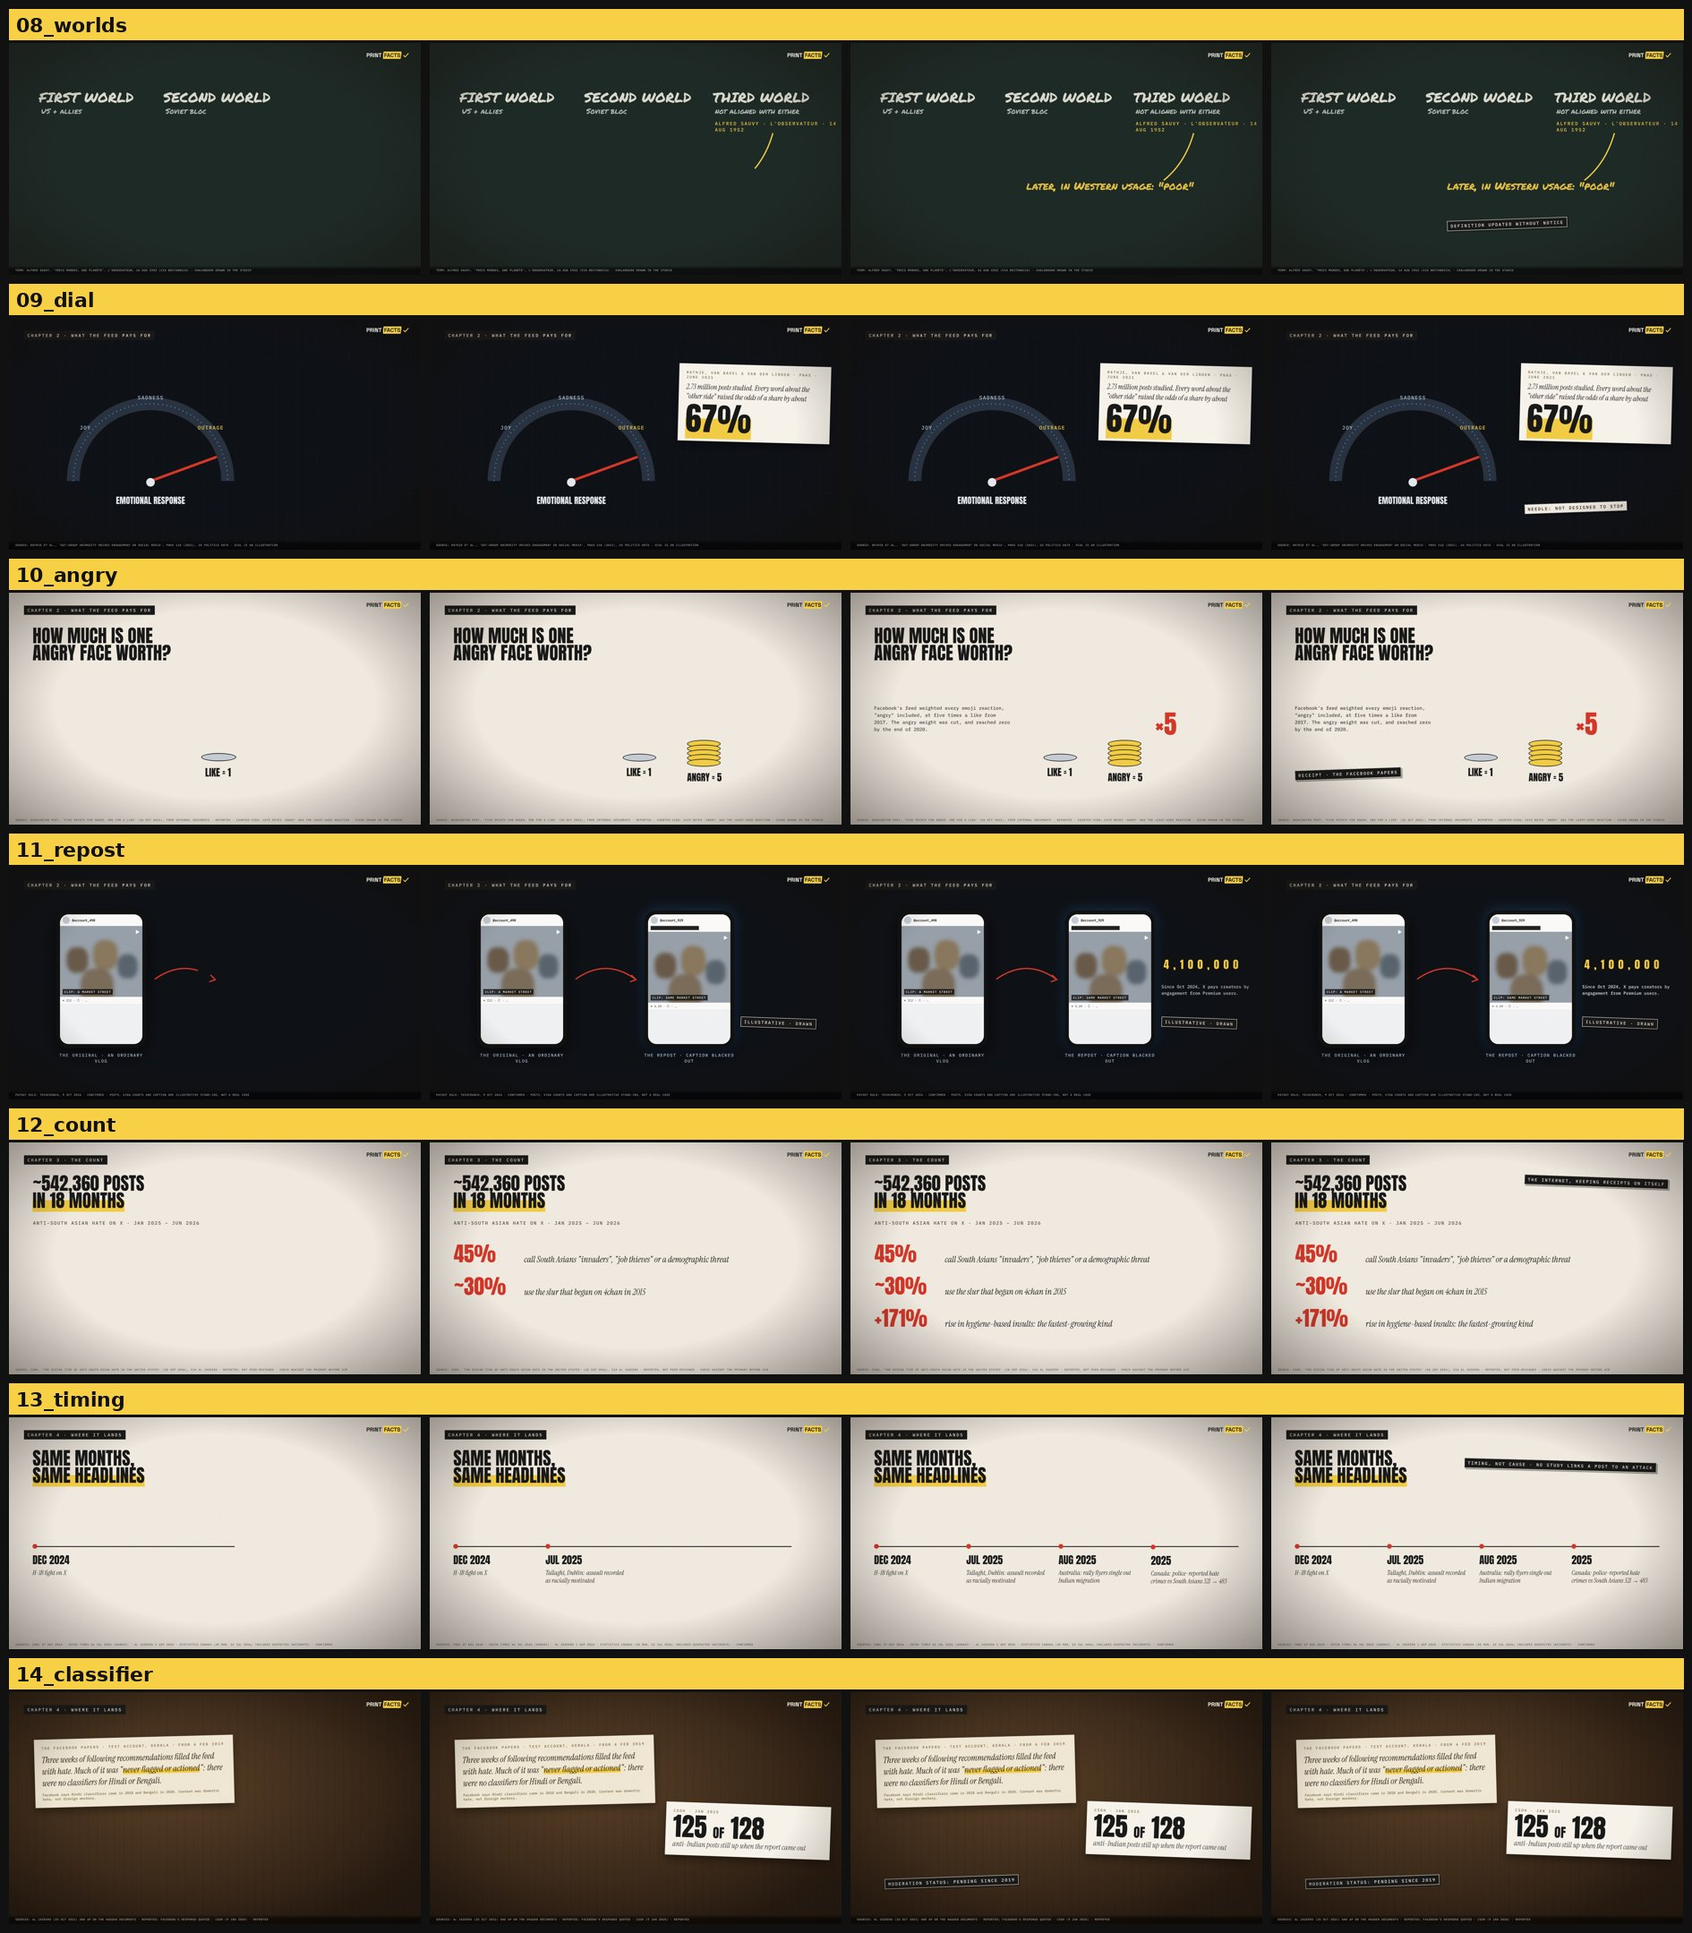
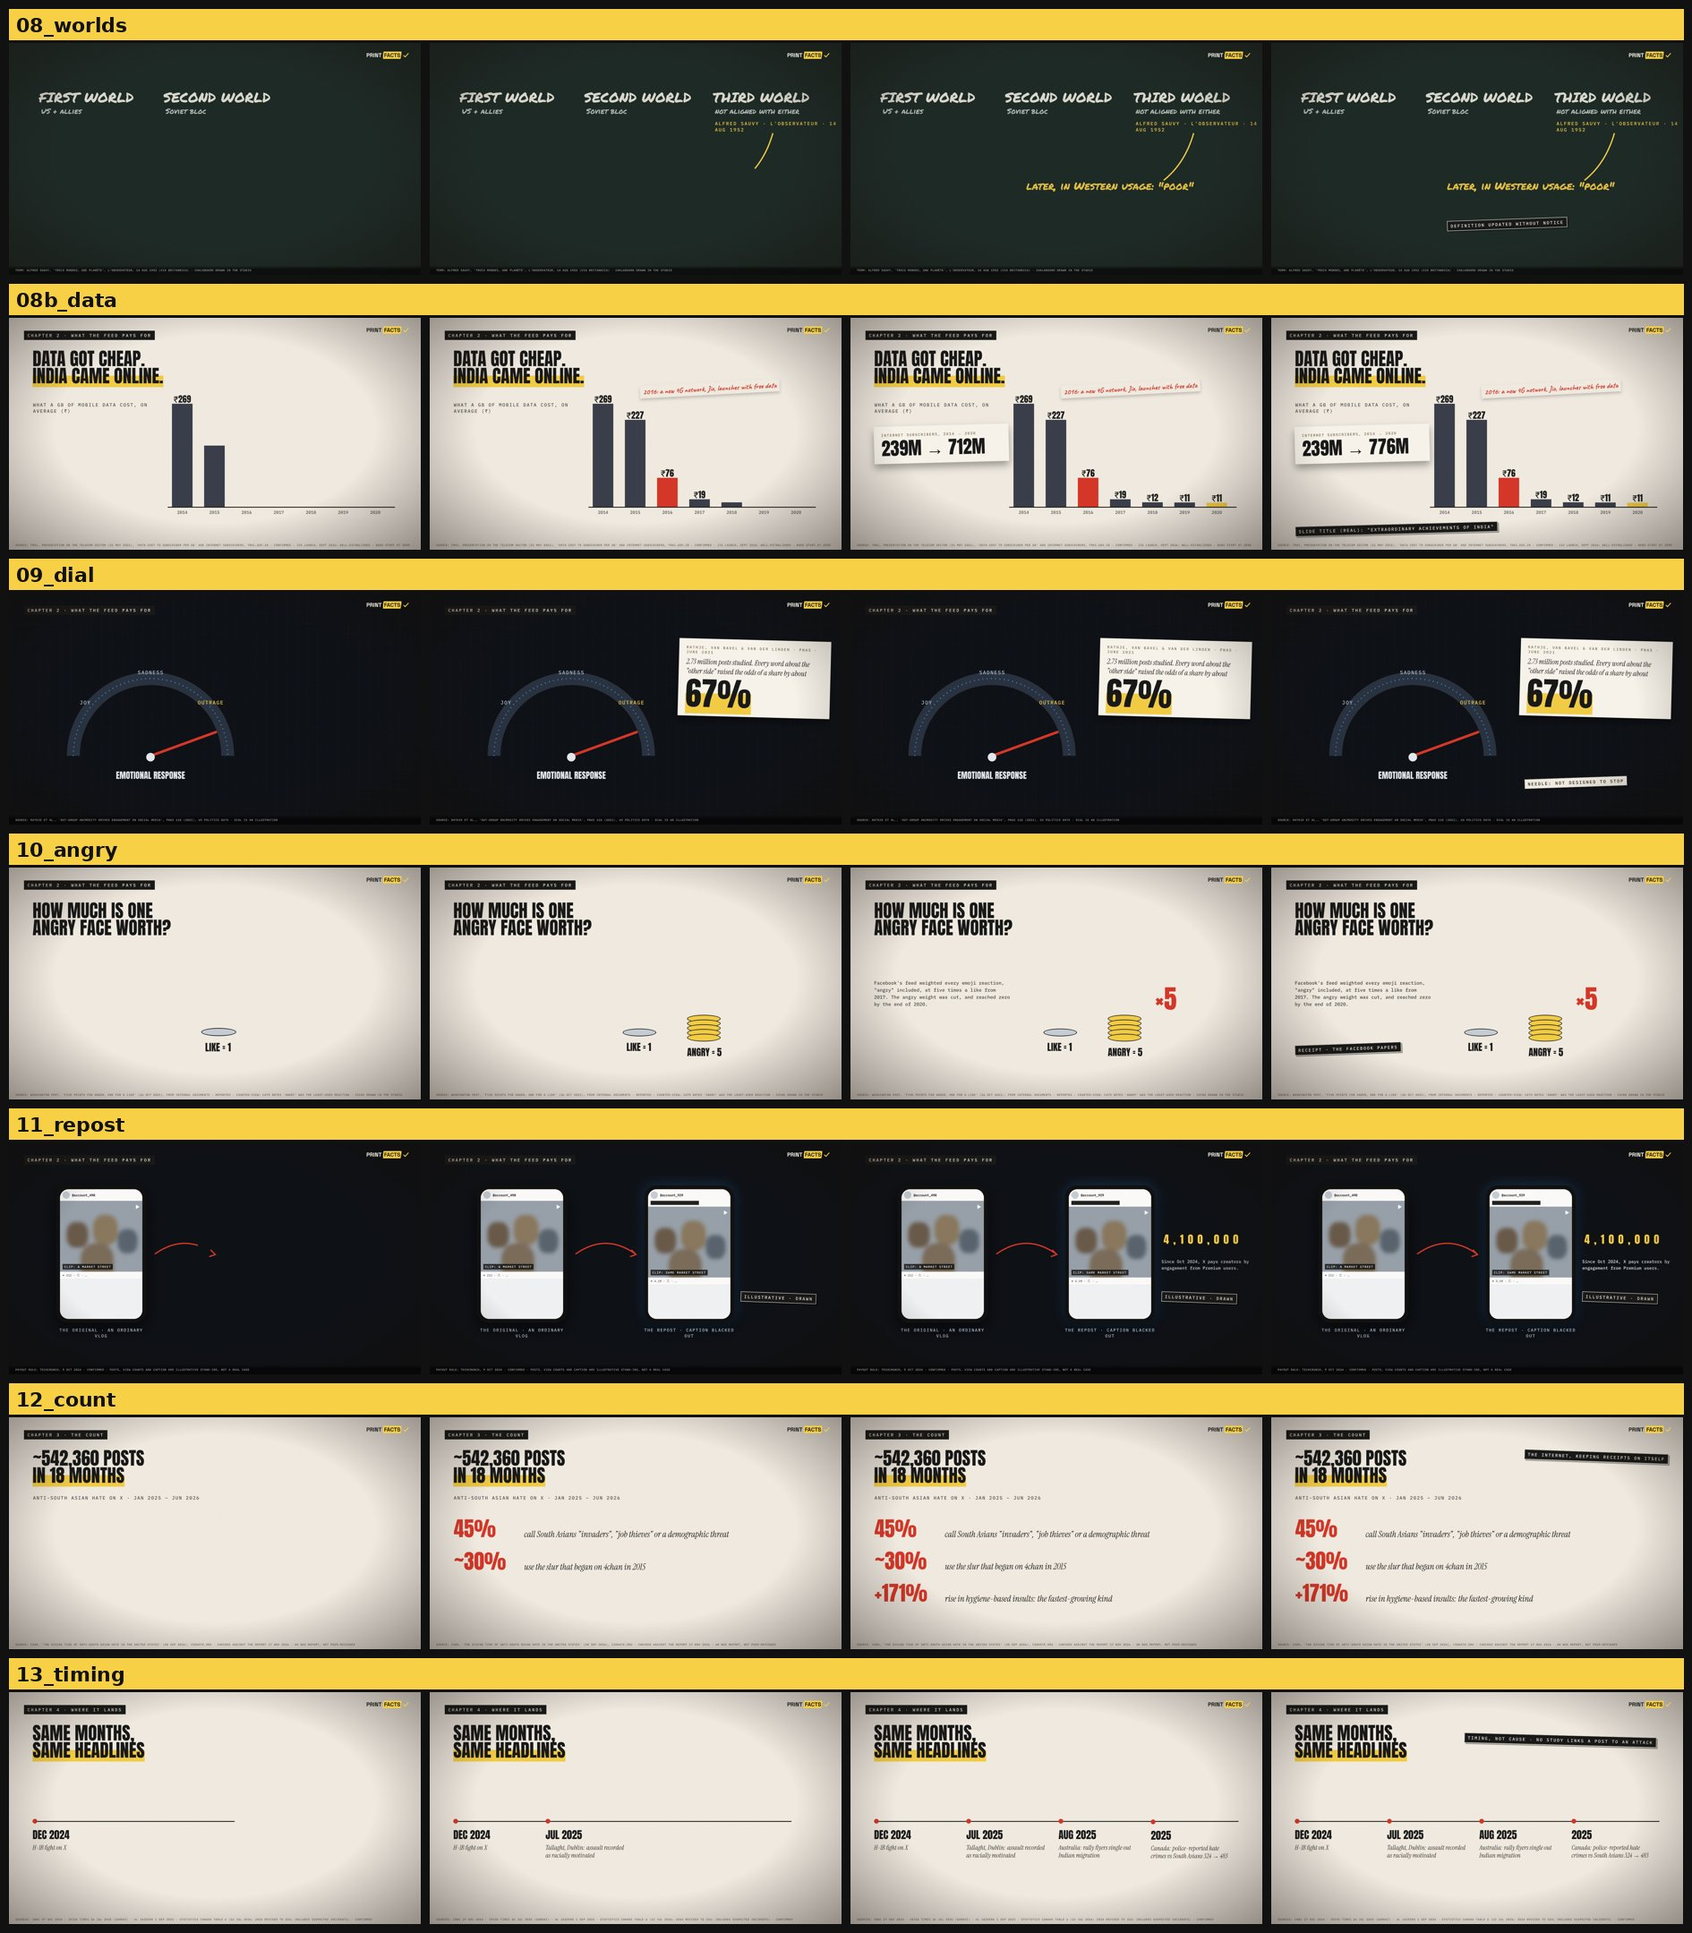
India film: figures checked against CSOH, StatCan, IC3 and TRAI; real CSOH report as the opening receipt; new TRAI data-drop frame; five-year Canada bars
Claude-Session: https://claude.ai/code/session_017xrBtfYjuM4LWtQjRrahAL

diff --git a/creatorforge/films/india-mocked-2026-11-17/frames.py b/creatorforge/films/india-mocked-2026-11-17/frames.py
@@ -66,15 +66,13 @@ put("01_feed", page(
 
 put("02_receipt", page(
     a(f'<div style="width:1920px;height:1080px;{DESK}"></div>', 0, 0)
-    + card(kicker("CENTER FOR THE STUDY OF ORGANIZED HATE · REPORT, 9 JAN 2025")
-           + f'<div style="font:400 40px/1.3 ISerif;color:{INK};margin:16px 0 22px">Posts on X targeting Indians after a White House tech appointment, counted to 3 Jan 2025:</div>'
-           + f'<div style="display:flex;gap:60px"><div><div style="font:400 120px/1 Anton;color:{INK}">128</div><div style="font:500 20px Plex;letter-spacing:3px">POSTS</div></div>'
-           + f'<div><div style="font:400 120px/1 Anton;color:{INK}">{hl("138.5M")}</div><div style="font:500 20px Plex;letter-spacing:3px">VIEWS</div></div></div>'
-           + f'<div style="font:500 16px Plex;color:#7A6A4A;margin-top:24px">Page set in the studio from the report\'s published figures.</div>', 980, 160, 200, "up 0 .15")
-    + f'<svg class="a" data-anim="draw .45 .6" style="left:0;top:0;z-index:30" width="1920" height="1080"><path d="{wobble(575, 478, 200, 70, 3)}" pathLength="1" fill="none" stroke="{RED}" stroke-width="6"/></svg>'
-    + A(f'<div style="font:700 60px/1.05 Caveat;color:{SIG};transform:rotate(-3deg);width:520px">"I went looking for a number. Somebody had already counted."</div>', 1290, 780, "fade .7 .85")
-    + tag("RECEIPT · CSOH, 9 JAN 2025", 230, 120, -2, "snap .3 .3"),
-    "#2A1D12", "SOURCE: CSOH, 'ANTI-INDIAN RACISM ON X' (9 JAN 2025), FIGURES AS OF 3 JAN 2025 · REPORTED; CHECK AGAINST THE PRIMARY BEFORE AIR", dark=True))
+    + A('<img src="/assets/csoh_title.png" style="width:760px;display:block;box-shadow:0 24px 44px rgba(0,0,0,.6)">', 110, 150, "up 0 .14", "transform:rotate(-2deg)")
+    + A('<img src="/assets/csoh_kf.png" style="width:1100px;display:block;box-shadow:0 24px 44px rgba(0,0,0,.6)">', 700, 520, "up .2 .34", "transform:rotate(1deg)")
+    + A(f'<div style="width:72px;height:30px;background:{SIG};opacity:.55;mix-blend-mode:multiply"></div>', 1700, 582, "wipe .45 .52", "z-index:31;transform:rotate(1deg)")
+    + f'<svg class="a" data-anim="draw .58 .7" style="left:0;top:0;z-index:30" width="1920" height="1080"><path d="{wobble(1356, 683, 128, 36, 3)}" pathLength="1" fill="none" stroke="{RED}" stroke-width="6"/></svg>'
+    + A(f'<div style="font:700 60px/1.05 Caveat;color:{SIG};transform:rotate(-3deg);width:560px">"I went looking for a number. Somebody had already counted."</div>', 120, 820, "fade .75 .88")
+    + tag("RECEIPT · CSOH, 9 JAN 2025", 980, 200, 2, "snap .38 .38"),
+    "#2A1D12", "SCREENSHOTS: CSOH, 'ANTI-INDIAN HATE ON X' (9 JAN 2025), CSOHATE.ORG, CAPTURED 17 NOV 2026 · FIGURES CHECKED AGAINST THE REPORT · CSOH IS A US-BASED NON-PROFIT RESEARCH GROUP; SOME IN INDIA CRITICISE ITS WORK AS PARTISAN", dark=True))
 
 tiles = [("23 AUG 2023", "CHANDRAYAAN-3", "soft landing near the Moon's south pole", "ISRO"),
          ("OCT 2026", "25.47 BN", "UPI payments in one month", "NPCI, VIA PRESS"),
@@ -155,6 +153,21 @@ put("08_worlds", page(
     + tag("DEFINITION UPDATED WITHOUT NOTICE", 820, 820, -2, "snap .9 .9"),
     CH, "TERM: ALFRED SAUVY, 'TROIS MONDES, UNE PLANÈTE', L'OBSERVATEUR, 14 AUG 1952 (VIA BRITANNICA) · CHALKBOARD DRAWN IN THE STUDIO", dark=True))
 
+# ==== the 2016 data drop (TRAI) ==========================================================================
+COST = [('2014', 268.97), ('2015', 226.8), ('2016', 75.57), ('2017', 19.35), ('2018', 11.78), ('2019', 11.17), ('2020', 10.9)]
+bars_ = "".join(A(f'<div style="width:96px;height:{v / 268.97 * 480:.0f}px;background:{SIG if y == "2020" else ("#3A3F4B" if y != "2016" else RED)}"></div>', 760 + i * 150, 880 - v / 268.97 * 480, f"grow {.15 + i * .07:.2f} {.24 + i * .07:.2f}")
+                + A(f'<div style="font:400 40px Anton;color:{INK};width:96px;text-align:center">₹{v:.0f}</div>', 760 + i * 150, 880 - v / 268.97 * 480 - 52, f"fade {.22 + i * .07:.2f} {.26 + i * .07:.2f}")
+                + a(f'<div style="font:500 20px Plex;color:#555;width:96px;text-align:center">{y}</div>', 760 + i * 150, 892) for i, (y, v) in enumerate(COST))
+put("08b_data", page(
+    chapter(2, "WHAT THE FEED PAYS FOR")
+    + A(f'<div style="font:400 84px/0.95 Anton;color:{INK};width:620px">DATA GOT CHEAP.<br>{hl("INDIA CAME ONLINE.")}</div>', 110, 150, "up 0 .1")
+    + A(f'<div style="font:500 22px Plex;letter-spacing:3px;color:#555;width:600px">WHAT A GB OF MOBILE DATA COST, ON AVERAGE (₹)</div>', 112, 390, "fade .08 .14")
+    + bars_ + a(f'<div style="width:1060px;height:4px;background:{INK}"></div>', 740, 880)
+    + A(f'<div style="background:{PARCH};padding:8px 14px;font:700 34px Caveat;color:{RED};transform:rotate(-3deg);box-shadow:0 8px 14px rgba(0,0,0,.2);white-space:nowrap">2016: a new 4G network, Jio, launches with free data</div>', 980, 300, "drop .3 .38", "z-index:31")
+    + card(f'<div style="font:500 17px Plex;letter-spacing:3px;color:#7A6A4A">INTERNET SUBSCRIBERS, 2014 → 2020</div><div style="font:400 84px/1 Anton;color:{INK};margin-top:8px">239M → <span data-anim="count .62 .85" data-to="776">776</span>M</div>', 560, 110, 500, "up .6 .7", -1.5)
+    + tag("SLIDE TITLE (REAL): \"EXTRAORDINARY ACHIEVEMENTS OF INDIA\"", 112, 960, -1.5, "snap .9 .9"),
+    PARCH, "SOURCE: TRAI, PRESENTATION ON THE TELECOM SECTOR (31 MAY 2021), 'DATA COST TO SUBSCRIBER PER GB' AND INTERNET SUBSCRIBERS, TRAI.GOV.IN · CONFIRMED · JIO LAUNCH, SEPT 2016: WELL-ESTABLISHED · BARS START AT ZERO"))
+
 # ==== 3 MECHANICS ==========================================================================================
 put("09_dial", page(
     a(f'<div style="width:1920px;height:1080px;background:#0E1116;background-image:linear-gradient(rgba(46,134,222,.08) 1px,transparent 1px),linear-gradient(90deg,rgba(46,134,222,.08) 1px,transparent 1px);background-size:48px 48px"></div>', 0, 0)
@@ -205,10 +218,10 @@ put("12_count", page(
     + "".join(A(f'<div style="display:flex;align-items:baseline;gap:28px;width:1500px"><div style="font:400 96px/1 Anton;color:{RED};width:300px">{n}</div><div style="font:400 40px/1.2 ISerif;color:{INK}">{t}</div></div>', 112, 470 + i * 150, f"up {.25 + i * .18:.2f} {.35 + i * .18:.2f}")
               for i, (n, t) in enumerate(shares))
     + tag("THE INTERNET, KEEPING RECEIPTS ON ITSELF", 1180, 160, 2, "snap .88 .88"),
-    PARCH, "SOURCE: CSOH, 'THE RISING TIDE OF ANTI-SOUTH ASIAN HATE IN THE UNITED STATES' (28 SEP 2026), VIA AL JAZEERA · REPORTED, NOT PEER-REVIEWED · CHECK AGAINST THE PRIMARY BEFORE AIR"))
+    PARCH, "SOURCE: CSOH, 'THE RISING TIDE OF ANTI-SOUTH ASIAN HATE IN THE UNITED STATES' (28 SEP 2026), CSOHATE.ORG · CHECKED AGAINST THE REPORT 17 NOV 2026 · AN NGO REPORT, NOT PEER-REVIEWED"))
 
 ev = [("DEC 2024", "H-1B fight on X", .1), ("JUL 2025", "Tallaght, Dublin: assault recorded as racially motivated", .3), ("AUG 2025", "Australia: rally flyers single out Indian migration", .5),
-      ("2025", "Canada: police-reported hate crimes vs South Asians 321 → 483", .7)]
+      ("2025", "Canada: police-reported hate crimes vs South Asians 324 → 483", .7)]
 put("13_timing", page(
     chapter(4, "WHERE IT LANDS")
     + A(f'<div style="font:400 84px/0.95 Anton;color:{INK}">SAME MONTHS,<br>{hl("SAME HEADLINES")}</div>', 110, 150, "up 0 .1")
@@ -216,16 +229,16 @@ put("13_timing", page(
     + "".join(A(f'<div style="width:390px"><div style="width:22px;height:22px;border-radius:50%;background:{RED};margin-bottom:16px"></div><div style="font:400 48px Anton;color:{INK}">{d}</div>'
                 f'<div style="font:400 30px/1.2 ISerif;color:#333;margin-top:6px">{t}</div></div>', 110 + i * 430, 590, f"up {s:.2f} {s + .08:.2f}") for i, (d, t, s) in enumerate(ev))
     + tag("TIMING, NOT CAUSE · NO STUDY LINKS A POST TO AN ATTACK", 900, 200, 1.5, "snap .9 .9"),
-    PARCH, "SOURCES: CNBC 27 DEC 2024 · IRISH TIMES 26 JUL 2025 (GARDAÍ) · AL JAZEERA 1 SEP 2025 · STATISTICS CANADA (30 MAR, 22 JUL 2026; INCLUDES SUSPECTED INCIDENTS) · CONFIRMED"))
+    PARCH, "SOURCES: CNBC 27 DEC 2024 · IRISH TIMES 26 JUL 2025 (GARDAÍ) · AL JAZEERA 1 SEP 2025 · STATISTICS CANADA TABLE 6 (22 JUL 2026; 2024 REVISED TO 324; INCLUDES SUSPECTED INCIDENTS) · CONFIRMED"))
 
 put("14_classifier", page(
     a(f'<div style="width:1920px;height:1080px;{DESK}"></div>', 0, 0) + chapter(4, "WHERE IT LANDS")
     + card(kicker("THE FACEBOOK PAPERS · TEST ACCOUNT, KERALA · FROM 4 FEB 2019")
            + f'<div style="font:400 40px/1.35 ISerif;color:#2A2118;margin-top:16px">Three weeks of following recommendations filled the feed with hate. Much of it was "{hl("never flagged or actioned")}": there were no classifiers for Hindi or Bengali.</div>'
            + f'<div style="font:500 16px Plex;color:#7A6A4A;margin-top:18px">Facebook says Hindi classifiers came in 2018 and Bengali in 2020. Content was domestic hate, not foreign mockery.</div>', 860, 120, 210, "up 0 .15", -1.5, "#F4ECD8")
-    + card(kicker("CSOH · JAN 2025") + f'<div style="font:400 120px/1 Anton;color:{INK}">125 <span style="font-size:60px">OF</span> 128</div><div style="font:400 34px ISerif;color:#444">anti-Indian posts still up when the report came out</div>', 700, 1100, 520, "up .4 .55", 2)
+    + card(kicker("CSOH · JAN 2025") + f'<div style="font:400 120px/1 Anton;color:{INK}">125 <span style="font-size:60px">OF</span> 128</div><div style="font:400 34px ISerif;color:#444">of the anti-Indian posts it logged were still live on 3 Jan 2025</div>', 700, 1100, 520, "up .4 .55", 2)
     + tag("MODERATION STATUS: PENDING SINCE 2019", 160, 860, -2, "snap .75 .75"),
-    "#2A1D12", "SOURCES: AL JAZEERA (25 OCT 2021) AND AP ON THE HAUGEN DOCUMENTS · REPORTED; FACEBOOK'S RESPONSE QUOTED · CSOH (9 JAN 2025) · REPORTED", dark=True))
+    "#2A1D12", "SOURCES: AL JAZEERA (25 OCT 2021) AND AP ON THE HAUGEN DOCUMENTS · REPORTED; FACEBOOK'S RESPONSE QUOTED · CSOH (9 JAN 2025) · CHECKED AGAINST THE REPORT", dark=True))
 
 # ==== the other side ========================================================================================
 side = [("19%", "of households had no toilet facility", "NFHS-5, 2019–21"), ("6th of 143", "most polluted country by PM2.5", "IQAir 2025"),

diff --git a/creatorforge/films/india-mocked-2026-11-17/motion.py b/creatorforge/films/india-mocked-2026-11-17/motion.py
@@ -153,15 +153,15 @@ const LABELS=()=>{let h='';for(const [yr,v,t,b,hot] of tops){const [x,y]=proj(t,
  ov.innerHTML=h+`<div style="left:90px;top:120px"><div style="font:400 56px ISerif;color:#E8E4DA">${CFG.kick}</div><div style="font:400 112px/0.9 Anton;color:#F3EFE6">${CFG.title}</div>
  <div style="font:500 22px Plex;letter-spacing:4px;color:${CFG.lab};margin-top:16px;width:900px">${CFG.what}</div></div>
  <div style="left:90px;top:22px;background:#1A1A1A;color:#F4EFE6;padding:8px 16px;font:500 20px Plex;letter-spacing:5px">CHAPTER 4 · WHERE IT LANDS</div>
- <div style="left:90px;top:560px;${CFG.tag}">${CFG.tagtext}</div>
+ <div style="left:1250px;top:330px;${CFG.tag}">${CFG.tagtext}</div>
  <div style="left:24px;bottom:14px;font:500 12px Plex;color:rgba(255,255,255,.55)">${CFG.src}</div>`};
 """
 for tag, grow in (("a", .3), ("b", .7), ("c", 1.0)):
-    cfg = dict(bg="#0B0A0D", data=[["2024", 321], ["2025", 483]], gap=4.2, hot=[1], glow=RED, lab=SIG, grow=grow, k=5.0 / 483,
-               cam=[-5, 5.2, 24], look=[-.6, 3.2, 0], kick="Not online. On paper, at the police station.", title="CANADA: +49%",
+    cfg = dict(bg="#0B0A0D", data=[["2021", 167], ["2022", 196], ["2023", 279], ["2024", 324], ["2025", 483]], gap=3.0, hot=[4], glow=RED, lab=SIG, grow=grow, k=5.0 / 483,
+               cam=[-4, 5.4, 27], look=[0.4, 3.0, 0], kick="Not online. On paper, at the police station.", title="CANADA: +49% IN A YEAR",
                what="POLICE-REPORTED HATE CRIMES AGAINST SOUTH ASIANS, CANADA (INCLUDES SUSPECTED INCIDENTS)",
                tag=TAGCSS + ";position:absolute;transform:rotate(-1.5deg)" + (";opacity:0" if grow < 1 else ""), tagtext="TIMING, NOT CAUSE",
-               src="SOURCE: STATISTICS CANADA, THE DAILY (30 MAR 2026) AND TABLE (22 JUL 2026) · CONFIRMED · BARS START AT ZERO · TWO YEARS SHOWN; EARLIER YEARS NOT YET IN THE DOSSIER")
+               src="SOURCE: STATISTICS CANADA, THE DAILY, TABLE 6 (22 JUL 2026), 2024 REVISED · CONFIRMED · INCLUDES SUSPECTED INCIDENTS · BARS START AT ZERO")
     html = S3.HEAD + f"const CFG={json.dumps(cfg, ensure_ascii=False)};\n" + BARS + S3.TAIL
     html = html.replace("</body>", f'<div style="position:absolute;right:56px;top:44px;z-index:90">{logo_d(1.0)}</div><style>{FONTS}</style></body>', 1)
     put(f"bars_{tag}", html)

diff --git a/creatorforge/films/india-mocked-2026-11-17/PRESHOW.md b/creatorforge/films/india-mocked-2026-11-17/PRESHOW.md
@@ -67,3 +67,18 @@ also shown at four moments of its animation. There is no video, voice or music.
 **Boundary fix:** every India outline in this film now uses the DataMeet India composite (official boundary, CC BY 4.0), which
 includes the Andaman and Nicobar Islands and Lakshadweep. The studio's old world file was missing the islands, so earlier films
 should be checked too.
+
+## Checked against the original sources (17 Nov 2026)
+- **CSOH (three reports):** every figure matches: 128 posts and 138.54M views; 125 of 128 posts still live; 680 posts and 281.2M
+  views; 542,360 posts; 45% "invaders/job thieves"; 30% slur; hygiene insults +171%. The opening frame now shows **the real
+  report page** (title and key findings, captured 17 Nov 2026), so the evidence-first gate is met without a waiver. The crop leaves
+  out the report's political commentary. CSOH is a US-based non-profit, and some in India criticise its work as partisan; the source
+  line says so.
+- **Statistics Canada:** 2024 was revised from 321 to 324. The glowing bars now show the full series: 167, 196, 279, 324, 483
+  (2021 to 2025).
+- **FBI IC3 2024:** tech-support fraud losses $1.46 billion, $982 million of it from people over 60. IC3 does not say where the
+  scams come from.
+- **New frame 08b, the 2016 data drop:** TRAI's own 2021 presentation gives ₹268.97 per GB in 2014 and ₹10.90 in 2020; internet
+  subscribers rose from 239 million to 776 million. The archive tag quotes the slide's real title, "Extraordinary Achievements of
+  India".
+- **Still unconfirmed (the sites block automated access):** IMF rank, UNESCO count, NPCI UPI figure, NCRI, CEPF and IQAir.
